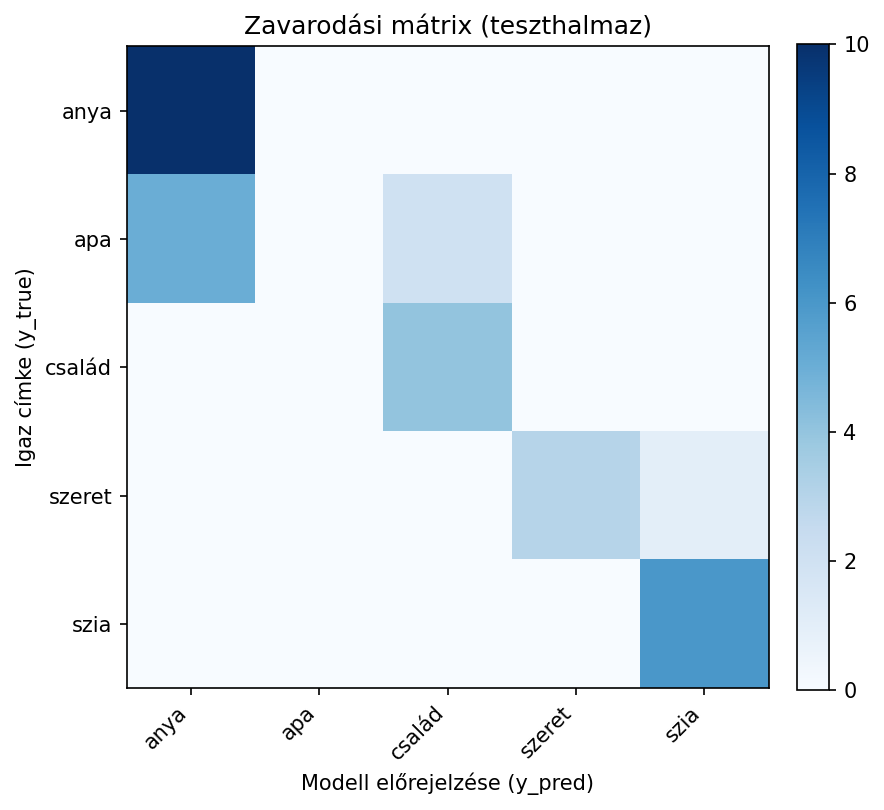
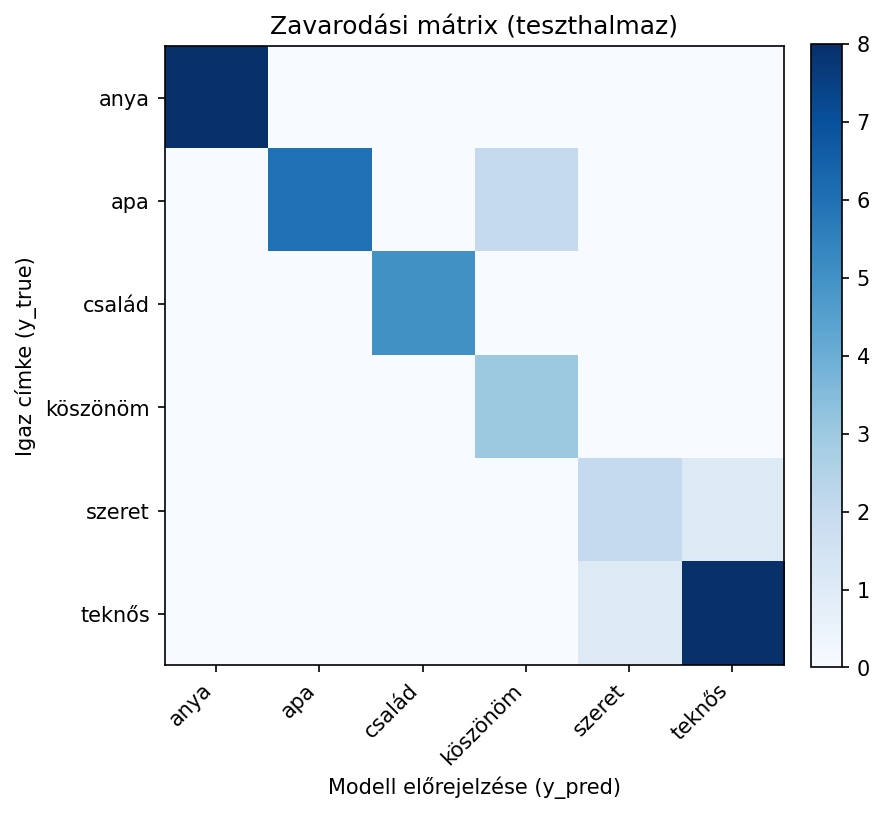
Enhance model evaluation and UI functionality: Updated `ertekelesi_jelentes.txt` with new performance metrics and class counts. Added functionality to remove recorded word data from the UI, including retraining options. Improved keypoint processing with scaling adjustments in `mp_features.py` and up

diff --git a/src/jelnyelv/main.py b/src/jelnyelv/main.py
@@ -12,7 +12,7 @@ import webbrowser
 
 import gradio as gr
 
-from jelnyelv.dataset import get_words_for_record
+from jelnyelv.dataset import delete_word_data, get_words_for_record, load_labels_from_data
 from jelnyelv.streaming import (
     _btn_idle,
     record_all_sequences_generator,
@@ -190,6 +190,53 @@ def create_ui():
                     fn=do_import,
                     inputs=[video_input, word_input, import_start, import_end],
                     outputs=[import_status, word_input, train_status],
+                )
+
+                with gr.Accordion("Remove word", open=False):
+                    gr.Markdown(
+                        "Permanently deletes the selected word's folder under `data/jelek/` "
+                        "(all sequences). Optionally retrains the model on the remaining words."
+                    )
+                    delete_retrain = gr.Checkbox(
+                        label="Retrain model after removal",
+                        value=True,
+                    )
+                    delete_btn = gr.Button("Remove selected word", variant="stop")
+                    delete_status = gr.Textbox(label="Removal status", interactive=False)
+
+                def do_delete_word(word: str, retrain_after: bool):
+                    ok, msg = delete_word_data(word)
+                    dd = _refresh_word_dropdown()
+                    if not ok:
+                        return msg, dd, gr.update()
+
+                    train_out = gr.update(value="—")
+                    if retrain_after:
+                        _labels, err = load_labels_from_data()
+                        if err:
+                            train_out = gr.update(
+                                value=f"{msg}\n\nNot retrained: {err}"
+                            )
+                        else:
+                            train_msg, train_err = train_model()
+                            if train_err:
+                                train_out = gr.update(
+                                    value=f"{msg}\n\nTraining error: {train_err}"
+                                )
+                            else:
+                                train_out = gr.update(
+                                    value=f"{msg}\n\n{train_msg}"
+                                )
+                    else:
+                        train_out = gr.update(
+                            value=f"{msg}\n\nRetrain skipped — use training after your next recording."
+                        )
+                    return msg, dd, train_out
+
+                delete_btn.click(
+                    fn=do_delete_word,
+                    inputs=[word_input, delete_retrain],
+                    outputs=[delete_status, word_input, train_status],
                 )
 
             # Recognize tab

diff --git a/src/jelnyelv/mp_features.py b/src/jelnyelv/mp_features.py
@@ -13,7 +13,14 @@ from mediapipe.tasks import python as mp_python
 from mediapipe.tasks.python import vision as mp_vision
 from mediapipe.tasks.python.vision import drawing_utils as mp_drawing
 
-from jelnyelv.config import FACE_DIMS, HAND_DIMS, POSE_DIMS
+from jelnyelv.config import (
+    FACE_DIMS,
+    FACE_FEATURE_SCALE,
+    HAND_DIMS,
+    HAND_FEATURE_SCALE,
+    POSE_DIMS,
+    POSE_FEATURE_SCALE,
+)
 
 
 @dataclass
@@ -103,8 +110,11 @@ def mediapipe_detection(bgr_image: np.ndarray, tasks: HolisticTasks) -> tuple[np
     return bgr_image, {"pose": pose_res, "face": face_res, "hands": hand_res}
 
 
-def extract_keypoints(results: dict) -> np.ndarray:
-    """Pack pose+face+hands into a (1662,) float32 vector."""
+def pack_landmarks(results: dict) -> np.ndarray:
+    """Pack pose+face+hands into a (1662,) float32 vector (unscaled, for saving to disk).
+
+    Scaling is applied in scale_keypoint_vector() so training, inference, and on-disk data stay consistent.
+    """
     pose_vec = np.zeros(POSE_DIMS, dtype=np.float32)
     if results["pose"].pose_landmarks:
         pts = results["pose"].pose_landmarks[0]
@@ -139,6 +149,29 @@ def extract_keypoints(results: dict) -> np.ndarray:
                 rh_vec[:] = vec
 
     return np.concatenate([pose_vec, face_vec, lh_vec, rh_vec]).astype(np.float32)
+
+
+def scale_keypoint_vector(arr: np.ndarray) -> np.ndarray:
+    """Apply pose/face/hand emphasis scales. Accepts (..., INPUT_SIZE) e.g. (1662,) or (T, 1662)."""
+    out = np.asarray(arr, dtype=np.float32).copy()
+    i = 0
+    j = i + POSE_DIMS
+    out[..., i:j] *= np.float32(POSE_FEATURE_SCALE)
+    i = j
+    j = i + FACE_DIMS
+    out[..., i:j] *= np.float32(FACE_FEATURE_SCALE)
+    i = j
+    j = i + HAND_DIMS
+    out[..., i:j] *= np.float32(HAND_FEATURE_SCALE)
+    i = j
+    j = i + HAND_DIMS
+    out[..., i:j] *= np.float32(HAND_FEATURE_SCALE)
+    return out
+
+
+def extract_keypoints(results: dict) -> np.ndarray:
+    """Landmarks packed and scaled for the LSTM (live inference / preview). Same scaling as training batches."""
+    return scale_keypoint_vector(pack_landmarks(results))
 
 
 def draw_landmarks_on_image(bgr_image: np.ndarray, results: dict) -> np.ndarray:

diff --git a/src/jelnyelv/dataset.py b/src/jelnyelv/dataset.py
@@ -1,12 +1,14 @@
 """Load/save sequences and word list. Streaming Dataset for scalable training."""
 
 import os
+import shutil
 
 import numpy as np
 import torch
 from torch.utils.data import Dataset
 
 from jelnyelv.config import DATA_PATH, INPUT_SIZE, NO_SEQUENCES, SEQUENCE_LENGTH
+from jelnyelv.mp_features import scale_keypoint_vector
 
 
 def load_labels_from_data() -> tuple[list[str] | None, str | None]:
@@ -48,6 +50,30 @@ def get_words_for_record() -> list[str]:
     return get_words_from_folders()
 
 
+def _sanitize_label_name(word: str) -> str | None:
+    """Return safe folder name for a label, or None if invalid."""
+    if not word or not str(word).strip():
+        return None
+    name = os.path.basename(str(word).strip())
+    if not name or name in (".", "..") or os.path.sep in name or "/" in name or "\\" in name:
+        return None
+    return name
+
+
+def delete_word_data(word: str) -> tuple[bool, str]:
+    """Remove data/jelek/<word>/ and all sequences. Returns (success, message)."""
+    name = _sanitize_label_name(word)
+    if name is None:
+        return False, "Enter or select a valid word label."
+
+    path = os.path.join(DATA_PATH, name)
+    if not os.path.isdir(path):
+        return False, f"No folder found for '{name}' under data/jelek/."
+
+    shutil.rmtree(path)
+    return True, f"Removed all recorded data for '{name}'."
+
+
 def ensure_data_directories(actions: list[str]) -> None:
     """Create data directories for each action and sequence."""
     for action in actions:
@@ -86,7 +112,8 @@ def _load_sequence_from_disk(action_path: str, seq_idx: int) -> np.ndarray | Non
             return None
     if len(window) != SEQUENCE_LENGTH:
         return None
-    return np.stack(window, axis=0)
+    seq = np.stack(window, axis=0)
+    return scale_keypoint_vector(seq)
 
 
 class StreamSequencesDataset(Dataset):

diff --git a/src/jelnyelv/config.py b/src/jelnyelv/config.py
@@ -14,6 +14,13 @@ POSE_DIMS = 33 * 4
 FACE_DIMS = 468 * 3
 HAND_DIMS = 21 * 3
 INPUT_SIZE = POSE_DIMS + FACE_DIMS + HAND_DIMS + HAND_DIMS
+
+# Per-body-part scaling applied in extract_keypoints() after landmarks are packed.
+# Raw dimension count is face-heavy (~84% of values are face); these scales rebalance
+# emphasis toward hands for sign-centric recognition. Must match at train and inference time.
+POSE_FEATURE_SCALE = 1.0
+FACE_FEATURE_SCALE = 0.35
+HAND_FEATURE_SCALE = 3.5
 HIDDEN_SIZE = 64
 NO_SEQUENCES = 30
 SEQUENCE_LENGTH = 31

diff --git a/src/jelnyelv/train.py b/src/jelnyelv/train.py
@@ -21,10 +21,13 @@ from jelnyelv.config import (
     EPOCHS,
     EVALUATION_CONFUSION_PNG_PATH,
     EVALUATION_REPORT_PATH,
+    FACE_FEATURE_SCALE,
     GRAD_CLIP_MAX_NORM,
+    HAND_FEATURE_SCALE,
     HIDDEN_SIZE,
     INPUT_SIZE,
     MODEL_PATH,
+    POSE_FEATURE_SCALE,
     TOP_N_BEST_CLASSES,
     TOP_N_CONFUSED_PAIRS,
     TOP_N_WORST_CLASSES,
@@ -264,6 +267,9 @@ def train_model() -> tuple[str, str | None]:
             "input_size": INPUT_SIZE,
             "hidden_size": HIDDEN_SIZE,
             "output_size": output_size,
+            "pose_feature_scale": POSE_FEATURE_SCALE,
+            "face_feature_scale": FACE_FEATURE_SCALE,
+            "hand_feature_scale": HAND_FEATURE_SCALE,
         },
     }
     torch.save(checkpoint, MODEL_PATH)

diff --git a/src/jelnyelv/video_import.py b/src/jelnyelv/video_import.py
@@ -9,8 +9,8 @@ from jelnyelv.config import DATA_PATH, RECOGNITION_INPUT_WIDTH, SEQUENCE_LENGTH
 from jelnyelv.dataset import get_words_for_record
 from jelnyelv.mp_features import (
     HolisticTasks,
-    extract_keypoints,
     mediapipe_detection,
+    pack_landmarks,
 )
 
 
@@ -118,7 +118,7 @@ def import_from_video(
                 small_h = int(h * small_w / w)
                 small = cv2.resize(frame, (small_w, small_h), interpolation=cv2.INTER_LINEAR)
                 _, results = mediapipe_detection(small, tasks)
-                kp = extract_keypoints(results)
+                kp = pack_landmarks(results)
                 keypoints_buffer.append(kp)
                 frame_idx += 1
 

diff --git a/src/jelnyelv/streaming.py b/src/jelnyelv/streaming.py
@@ -22,6 +22,7 @@ from jelnyelv.mp_features import (
     draw_landmarks_on_image,
     extract_keypoints,
     mediapipe_detection,
+    pack_landmarks,
 )
 
 
@@ -59,7 +60,7 @@ def record_all_sequences_generator(word: str, seconds_per_sequence: float):
                         continue
 
                     _, results = mediapipe_detection(frame, tasks)
-                    kp = extract_keypoints(results)
+                    kp = pack_landmarks(results)
                     keypoints_buffer.append(kp)
 
                     elapsed = time.perf_counter() - start

diff --git a/README.md b/README.md
@@ -121,7 +121,9 @@ Labels come from **recorded data folders** (`data/jelek/<label>/...`).
 1. **Record sequences** – In the Record tab, select a word from the dropdown (existing folders) or type a new word. Click "Record all 30 sequences". Data goes to `data/jelek/<word>/<sequence>/<frame>.npy`.
 2. **Train** – Training runs automatically when data is added (or use the flow in the UI). Labels are derived from folders with at least one complete sequence. Saves `your_model.pth` (with labels inside), **`ertekelesi_jelentes.txt`** (metrics + qualitative lists), and **`ertekelesi_confusion_matrix.png`** (confusion matrix heatmap, up to 45 classes).
 
-3. **Recognize** – In the Recognize tab, start webcam. Labels come from the checkpoint only. If you just retrained, click "Reload model".
+3. **Remove word** – In the **Remove word** accordion (Record & Train tab), select a label and click **Remove selected word**. This deletes `data/jelek/<word>/`. With **Retrain model after removal** checked, the model is updated for the remaining classes.
+
+4. **Recognize** – In the Recognize tab, start webcam. Labels come from the checkpoint only. Restart recognition after retraining so the new checkpoint is loaded.
 
 ### Kiértékelés (GitHub / bizottság számára)
 